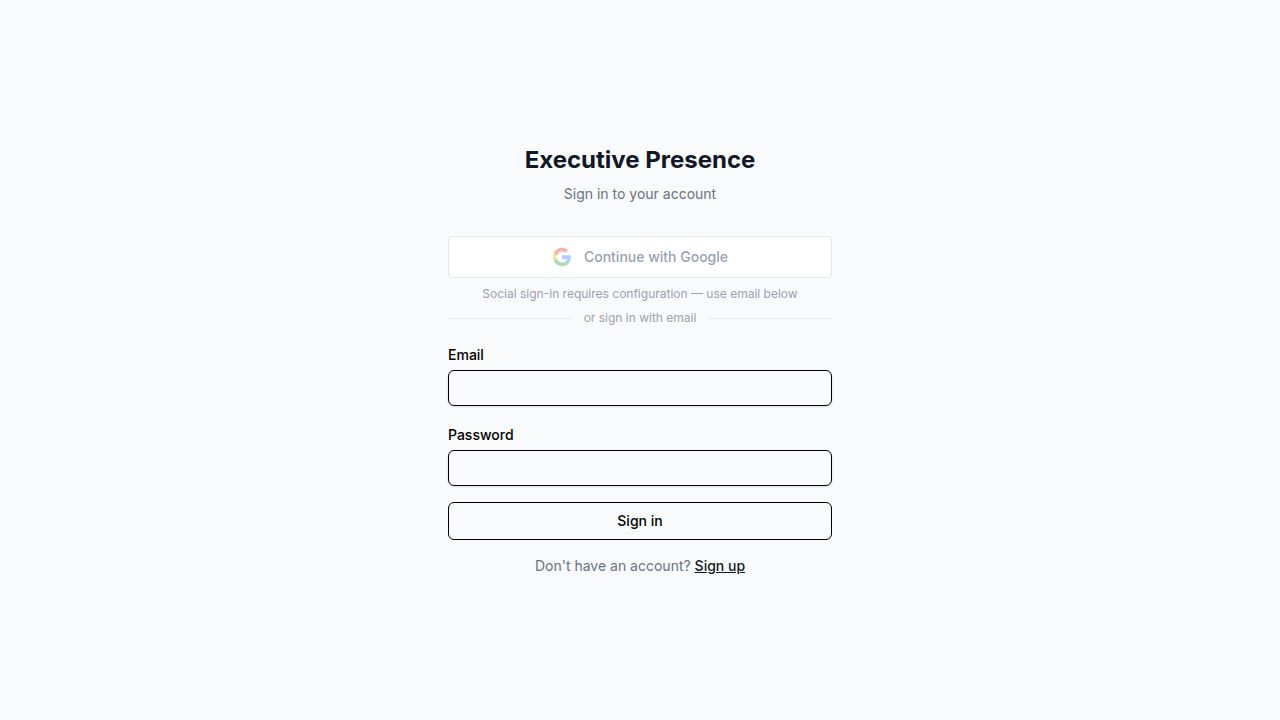
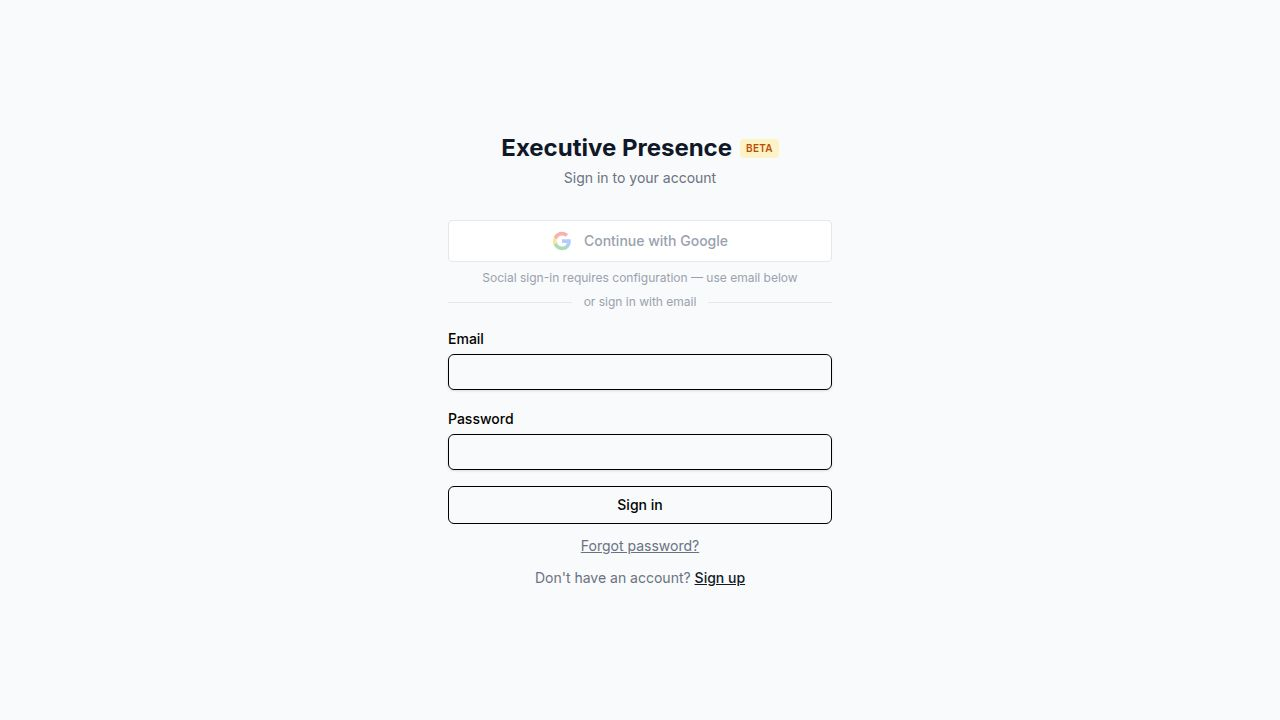
Add a "Forgot password?" option and streamline the onboarding process
Introduces a new route for password resets, adds a "Forgot password?" link to the login page, and simplifies the onboarding flow by reducing the number of steps.

Replit-Commit-Author: Agent
Replit-Commit-Session-Id: 5af8bf4c-8bec-4d6e-a77c-24d462364576
Replit-Commit-Checkpoint-Type: full_checkpoint
Replit-Commit-Event-Id: 0d9e9c9d-aa0e-4285-bf9d-09588342ceba
Replit-Commit-Screenshot-Url: https://storage.googleapis.com/screenshot-production-us-central1/ff5415b8-ee52-44b4-822f-1fc8fab2f8f0/5af8bf4c-8bec-4d6e-a77c-24d462364576/SRazCdh
Replit-Helium-Checkpoint-Created: true

diff --git a/artifacts/ep-app/src/pages/onboarding.tsx b/artifacts/ep-app/src/pages/onboarding.tsx
@@ -33,24 +33,10 @@ const GOAL_OPTIONS = [
   "Develop a more commanding physical presence",
 ];
 
-const COMMUNICATION_CONTEXTS = [
-  { value: "internal", label: "Internal meetings" },
-  { value: "external", label: "External / client-facing" },
-  { value: "presentations", label: "Presentations & keynotes" },
-  { value: "mixed", label: "Mixed contexts" },
-];
-
-const RECORDING_CONTEXTS = [
-  { value: "seated", label: "Seated (desk / conference room)" },
-  { value: "standing", label: "Standing (podium / standing desk)" },
-];
-
 export default function OnboardingPage() {
   const [step, setStep] = useState(1);
   const [roleTitle, setRoleTitle] = useState("");
   const [selectedGoals, setSelectedGoals] = useState<string[]>([]);
-  const [communicationContext, setCommunicationContext] = useState("");
-  const [defaultRecordingContext, setDefaultRecordingContext] = useState("seated");
   const [loading, setLoading] = useState(false);
   const { refreshUser } = useAuth();
   const [, setLocation] = useLocation();
@@ -66,9 +52,7 @@ export default function OnboardingPage() {
     try {
       await api.users.completeOnboarding({
         roleTitle,
-        communicationContext,
         goal: selectedGoals.join("; "),
-        defaultRecordingContext,
       });
       await refreshUser();
       setLocation("/dashboard");
@@ -86,7 +70,7 @@ export default function OnboardingPage() {
           <h1 className="text-2xl font-bold text-gray-900">Welcome to Executive Presence</h1>
           <p className="mt-2 text-sm text-gray-500">Let's personalize your experience</p>
           <div className="mt-4 flex justify-center gap-2">
-            {[1, 2, 3].map(i => (
+            {[1, 2].map(i => (
               <div
                 key={i}
                 className={`h-1.5 w-8 rounded-full transition-colors ${i <= step ? "bg-gray-900" : "bg-gray-200"}`}
@@ -168,71 +152,11 @@ export default function OnboardingPage() {
               <Button variant="outline" className="flex-1" onClick={() => setStep(1)}>
                 Back
               </Button>
-              <Button className="flex-1" onClick={() => setStep(3)} disabled={selectedGoals.length === 0}>
-                Continue
-              </Button>
-            </div>
-          </div>
-        )}
-
-        {step === 3 && (
-          <div className="space-y-5">
-            <div>
-              <h2 className="text-lg font-semibold">Your communication context</h2>
-              <p className="text-sm text-gray-500 mt-1">Where do you primarily present or speak?</p>
-            </div>
-            <div className="space-y-2">
-              {COMMUNICATION_CONTEXTS.map(ctx => (
-                <label
-                  key={ctx.value}
-                  className={`flex items-center gap-3 rounded border p-3 cursor-pointer transition-colors ${
-                    communicationContext === ctx.value
-                      ? "border-gray-900 bg-gray-50"
-                      : "border-gray-200"
-                  }`}
-                >
-                  <input
-                    type="radio"
-                    name="communicationContext"
-                    value={ctx.value}
-                    checked={communicationContext === ctx.value}
-                    onChange={() => setCommunicationContext(ctx.value)}
-                    className="sr-only"
-                  />
-                  <span
-                    className={`h-4 w-4 rounded-full border-2 flex-shrink-0 ${
-                      communicationContext === ctx.value
-                        ? "border-gray-900 bg-gray-900"
-                        : "border-gray-300"
-                    }`}
-                  />
-                  <span className="text-sm">{ctx.label}</span>
-                </label>
-              ))}
-            </div>
-            <div className="pt-2">
-              <p className="text-sm font-medium text-gray-700 mb-2">Default recording position</p>
-              <div className="flex gap-2">
-                {RECORDING_CONTEXTS.map(ctx => (
-                  <button
-                    key={ctx.value}
-                    onClick={() => setDefaultRecordingContext(ctx.value)}
-                    className={`flex-1 rounded border py-2 text-sm transition-colors ${
-                      defaultRecordingContext === ctx.value
-                        ? "border-gray-900 bg-gray-900 text-white"
-                        : "border-gray-200"
-                    }`}
-                  >
-                    {ctx.label}
-                  </button>
-                ))}
-              </div>
-            </div>
-            <div className="flex gap-2">
-              <Button variant="outline" className="flex-1" onClick={() => setStep(2)}>
-                Back
-              </Button>
-              <Button className="flex-1" onClick={handleFinish} disabled={loading}>
+              <Button
+                className="flex-1"
+                onClick={handleFinish}
+                disabled={selectedGoals.length === 0 || loading}
+              >
                 {loading ? "Saving..." : "Get started"}
               </Button>
             </div>

diff --git a/artifacts/ep-app/src/pages/forgot-password.tsx b/artifacts/ep-app/src/pages/forgot-password.tsx
@@ -1,0 +1,88 @@
+import { useState } from "react";
+import { useLocation } from "wouter";
+import { Button } from "@/components/ui/button";
+import { Input } from "@/components/ui/input";
+import { Label } from "@/components/ui/label";
+
+export default function ForgotPasswordPage() {
+  const [email, setEmail] = useState("");
+  const [submitted, setSubmitted] = useState(false);
+  const [loading, setLoading] = useState(false);
+  const [, setLocation] = useLocation();
+
+  const handleSubmit = async (e: React.FormEvent) => {
+    e.preventDefault();
+    setLoading(true);
+    try {
+      await fetch("/api/v1/auth/forgot-password", {
+        method: "POST",
+        headers: { "Content-Type": "application/json" },
+        body: JSON.stringify({ email }),
+      });
+    } catch {
+    } finally {
+      setLoading(false);
+      setSubmitted(true);
+    }
+  };
+
+  return (
+    <div className="min-h-screen flex items-center justify-center bg-gray-50 px-4">
+      <div className="w-full max-w-sm">
+        <div className="text-center mb-8">
+          <div className="flex items-center justify-center gap-2 mb-1">
+            <h1 className="text-2xl font-bold text-gray-900" style={{ fontFamily: "Inter, sans-serif" }}>
+              Executive Presence
+            </h1>
+            <span className="rounded bg-amber-100 px-1.5 py-0.5 text-[10px] font-semibold uppercase tracking-wide text-amber-700">
+              Beta
+            </span>
+          </div>
+          <p className="mt-1 text-sm text-gray-500">Reset your password</p>
+        </div>
+
+        {submitted ? (
+          <div className="text-center space-y-4">
+            <div className="rounded border border-green-200 bg-green-50 px-4 py-4 text-sm text-green-700">
+              <p className="font-medium">Check your email</p>
+              <p className="mt-1">If an account with <span className="font-medium">{email}</span> exists, a password reset link has been sent.</p>
+            </div>
+            <p className="text-sm text-gray-500">Didn't receive it? Check your spam folder or try again.</p>
+            <Button variant="outline" className="w-full" onClick={() => setLocation("/login")}>
+              Back to sign in
+            </Button>
+          </div>
+        ) : (
+          <>
+            <p className="text-sm text-gray-600 mb-6">
+              Enter your email address and we'll send you a link to reset your password.
+            </p>
+            <form onSubmit={handleSubmit} className="space-y-4">
+              <div>
+                <Label htmlFor="email">Email</Label>
+                <Input
+                  id="email"
+                  type="email"
+                  value={email}
+                  onChange={(e) => setEmail(e.target.value)}
+                  required
+                  autoComplete="email"
+                  autoFocus
+                  className="mt-1"
+                />
+              </div>
+              <Button type="submit" className="w-full" disabled={loading || !email}>
+                {loading ? "Sending..." : "Send reset link"}
+              </Button>
+            </form>
+            <p className="mt-4 text-center text-sm text-gray-500">
+              <button onClick={() => setLocation("/login")} className="font-medium text-gray-900 underline">
+                Back to sign in
+              </button>
+            </p>
+          </>
+        )}
+      </div>
+    </div>
+  );
+}

diff --git a/artifacts/ep-app/src/App.tsx b/artifacts/ep-app/src/App.tsx
@@ -6,6 +6,7 @@ import { AuthProvider, useAuth } from "@/lib/auth-context";
 import Layout from "@/components/layout";
 import LoginPage from "@/pages/login";
 import SignupPage from "@/pages/signup";
+import ForgotPasswordPage from "@/pages/forgot-password";
 import OnboardingPage from "@/pages/onboarding";
 import DashboardPage from "@/pages/dashboard";
 import RecordPage from "@/pages/record";
@@ -55,6 +56,9 @@ function AppRouter() {
       </Route>
       <Route path="/signup">
         {user ? <Redirect to="/dashboard" /> : <SignupPage />}
+      </Route>
+      <Route path="/forgot-password">
+        {user ? <Redirect to="/dashboard" /> : <ForgotPasswordPage />}
       </Route>
       <Route path="/onboarding">
         {!user ? <Redirect to="/login" /> : <OnboardingPage />}

diff --git a/artifacts/ep-app/src/pages/login.tsx b/artifacts/ep-app/src/pages/login.tsx
@@ -185,7 +185,12 @@ export default function LoginPage() {
             {loading ? "Signing in..." : "Sign in"}
           </Button>
         </form>
-        <p className="mt-4 text-center text-sm text-gray-500">
+        <p className="mt-3 text-center text-sm">
+          <button onClick={() => setLocation("/forgot-password")} className="text-gray-500 hover:text-gray-700 underline">
+            Forgot password?
+          </button>
+        </p>
+        <p className="mt-3 text-center text-sm text-gray-500">
           Don't have an account?{" "}
           <button onClick={() => setLocation("/signup")} className="font-medium text-gray-900 underline">
             Sign up
